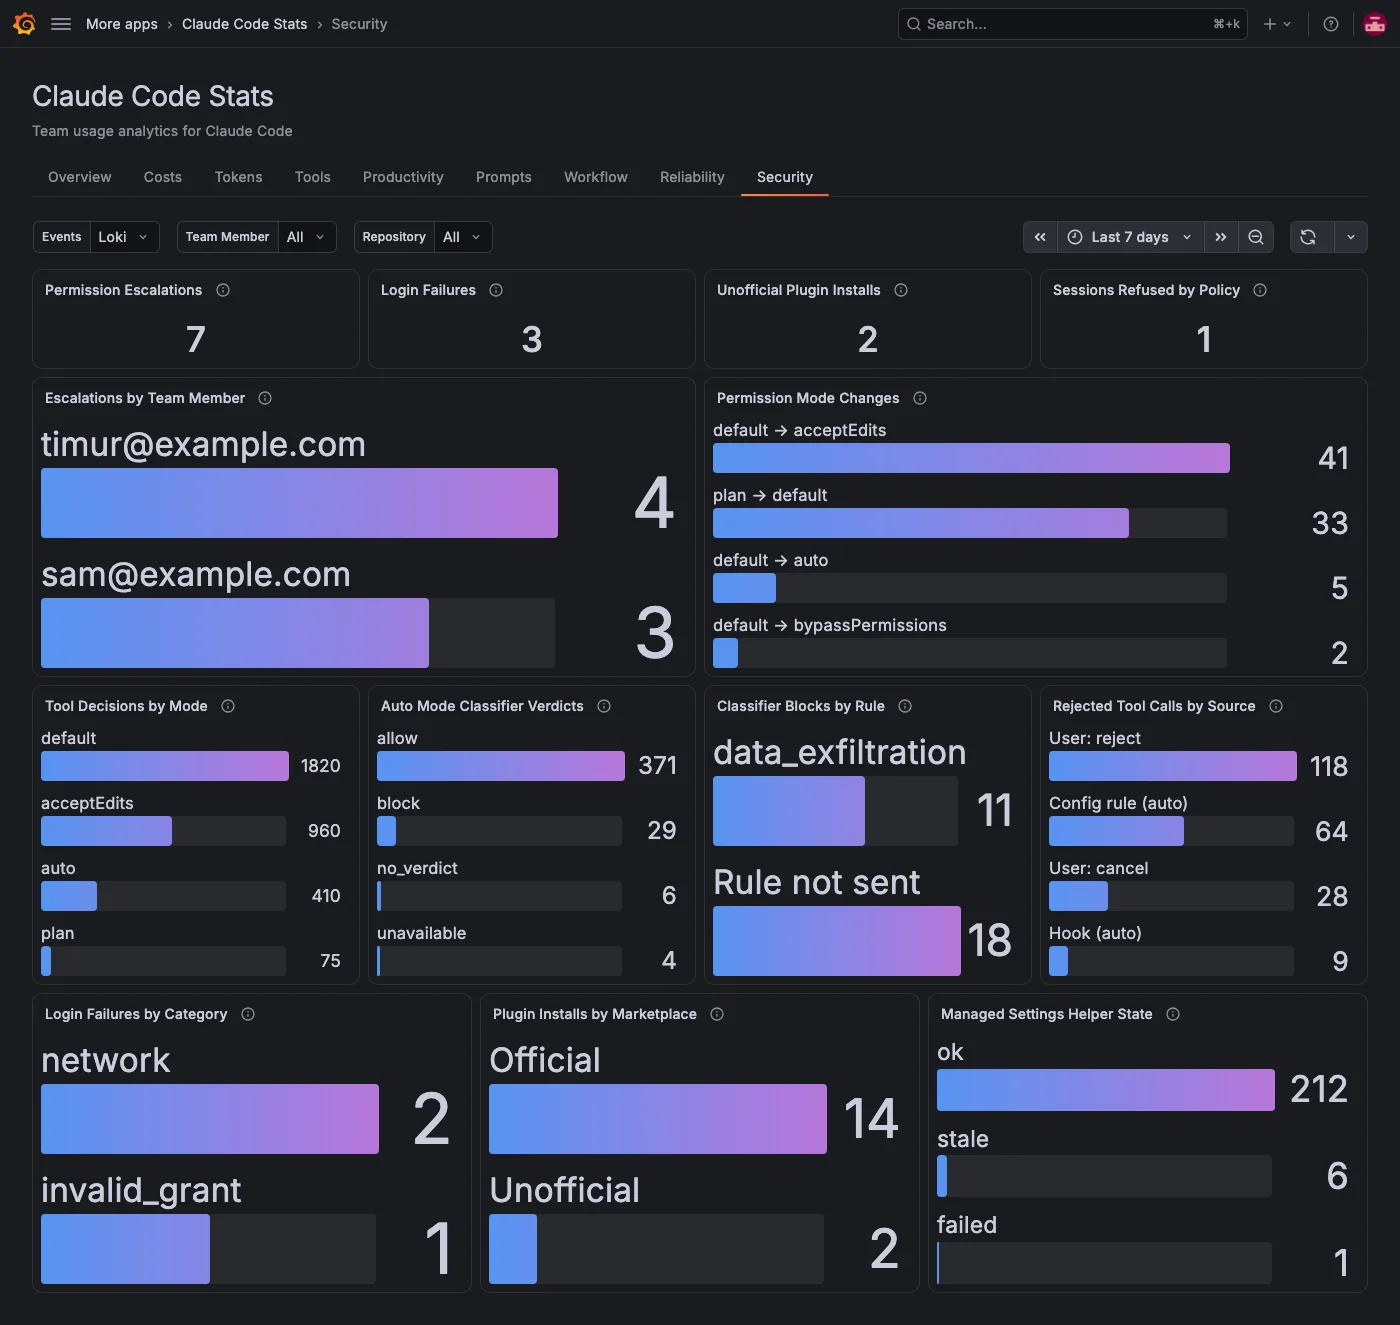
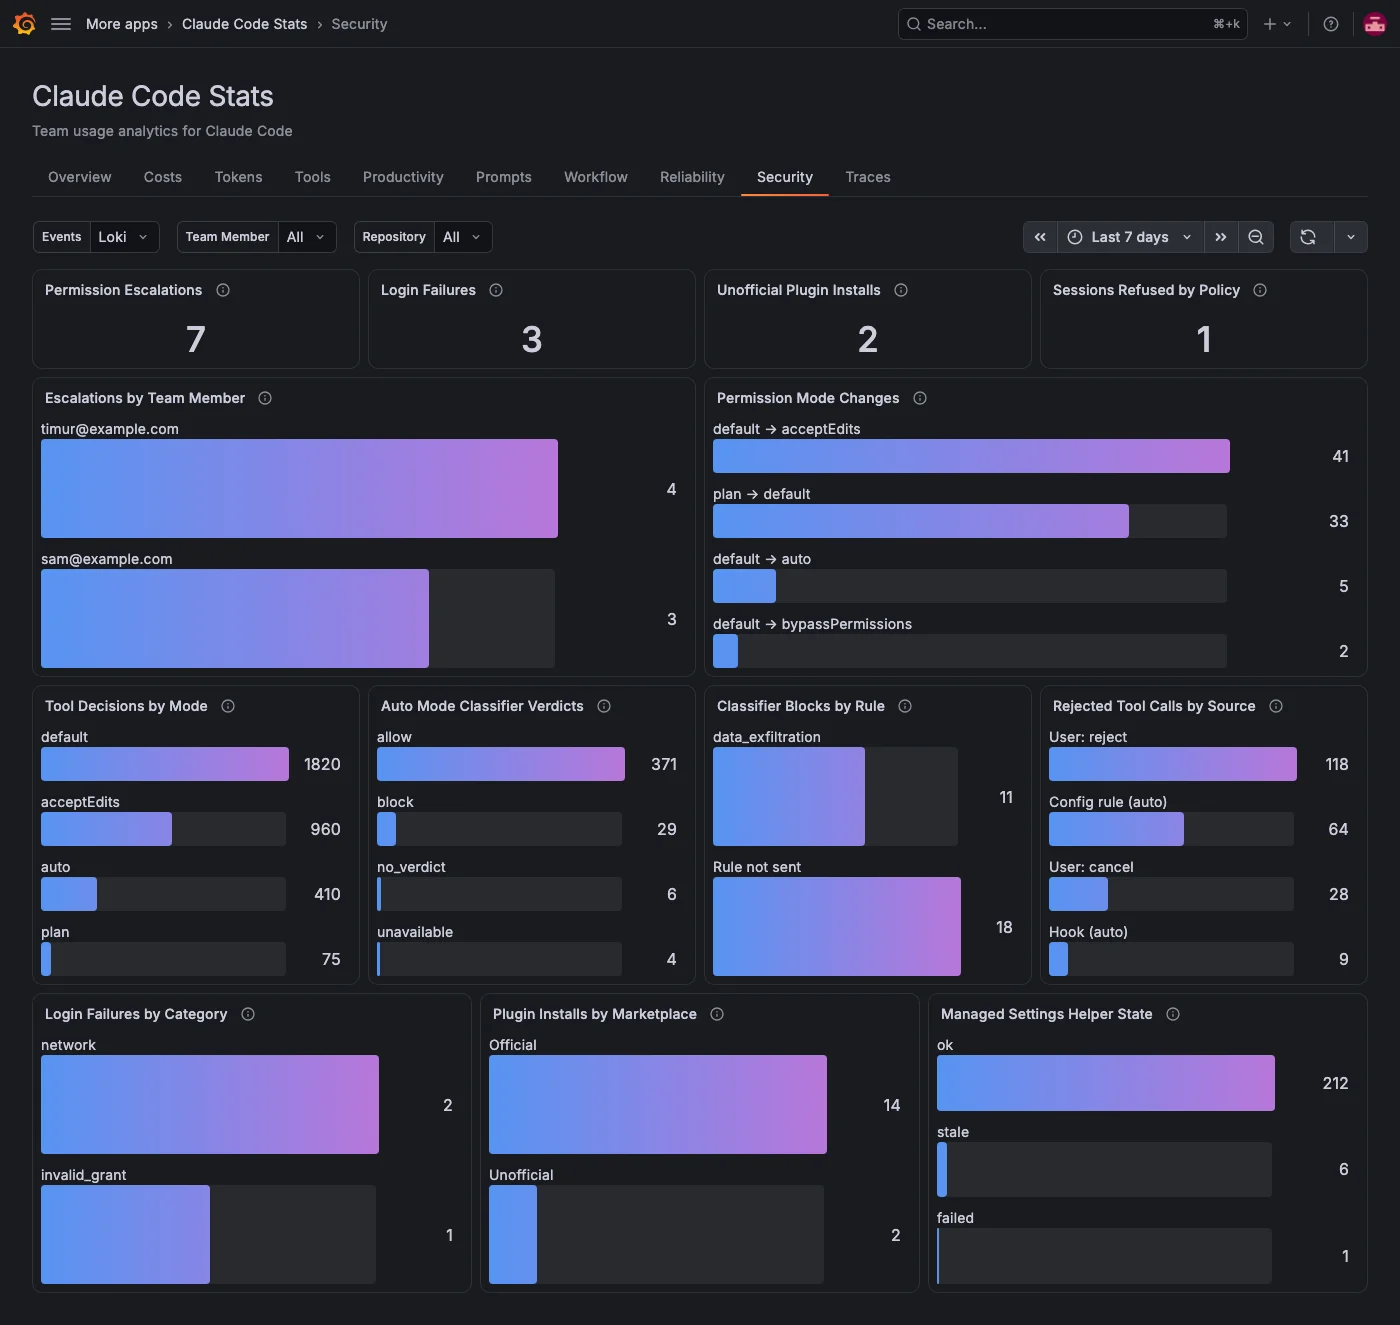
docs: recapture screenshots and update the MCP tool label for the layout fixes

diff --git a/catalog-docs/features/costs.md b/catalog-docs/features/costs.md
@@ -34,7 +34,7 @@ The bar gauges attribute cost to what issued each request, largest first:
 | **Cost by Skill**             | Which skill was active.                                        |
 | **Cost by MCP Server**        | Which MCP server's tool result the request used.               |
 | **Cost by Plugin**            | Which plugin owns the active skill or subagent.                |
-| **Cost by MCP Tool**          | Which MCP tool's result the request used, as `server / tool`.  |
+| **Cost by MCP Tool**          | Which MCP tool's result the request used, as `tool · server`.  |
 | **Cost by Repository**        | Which Git repository Claude Code was working in.               |
 | **Cost by Speed (Fast Mode)** | `fast` for fast mode, `normal` otherwise.                      |
 | **Cost by Effort**            | The effort level, or `default` when the model doesn't use one. |

diff --git a/CHANGELOG.md b/CHANGELOG.md
@@ -53,6 +53,7 @@
 - Event tabs no longer say telemetry is missing when there is simply nothing to show: counts show 0 and breakdowns say what didn't happen, such as "No refusals in this period" (#94)
 - The Traces tables show their key columns with readable names, and a Model Requests trace ID opens the trace (#92)
 - Counts show whole numbers, costs show cents, and the Cost Breakdown table has Team Member, Model and Cost columns without the query time (#95)
+- Narrow panels stay readable: bar gauge text no longer grows to heading size, MCP tool labels lead with the tool, leaderboard headers and pie legends fit, and the Surface hint is no longer cut off (#96)
 
 ## 1.1.0
 
